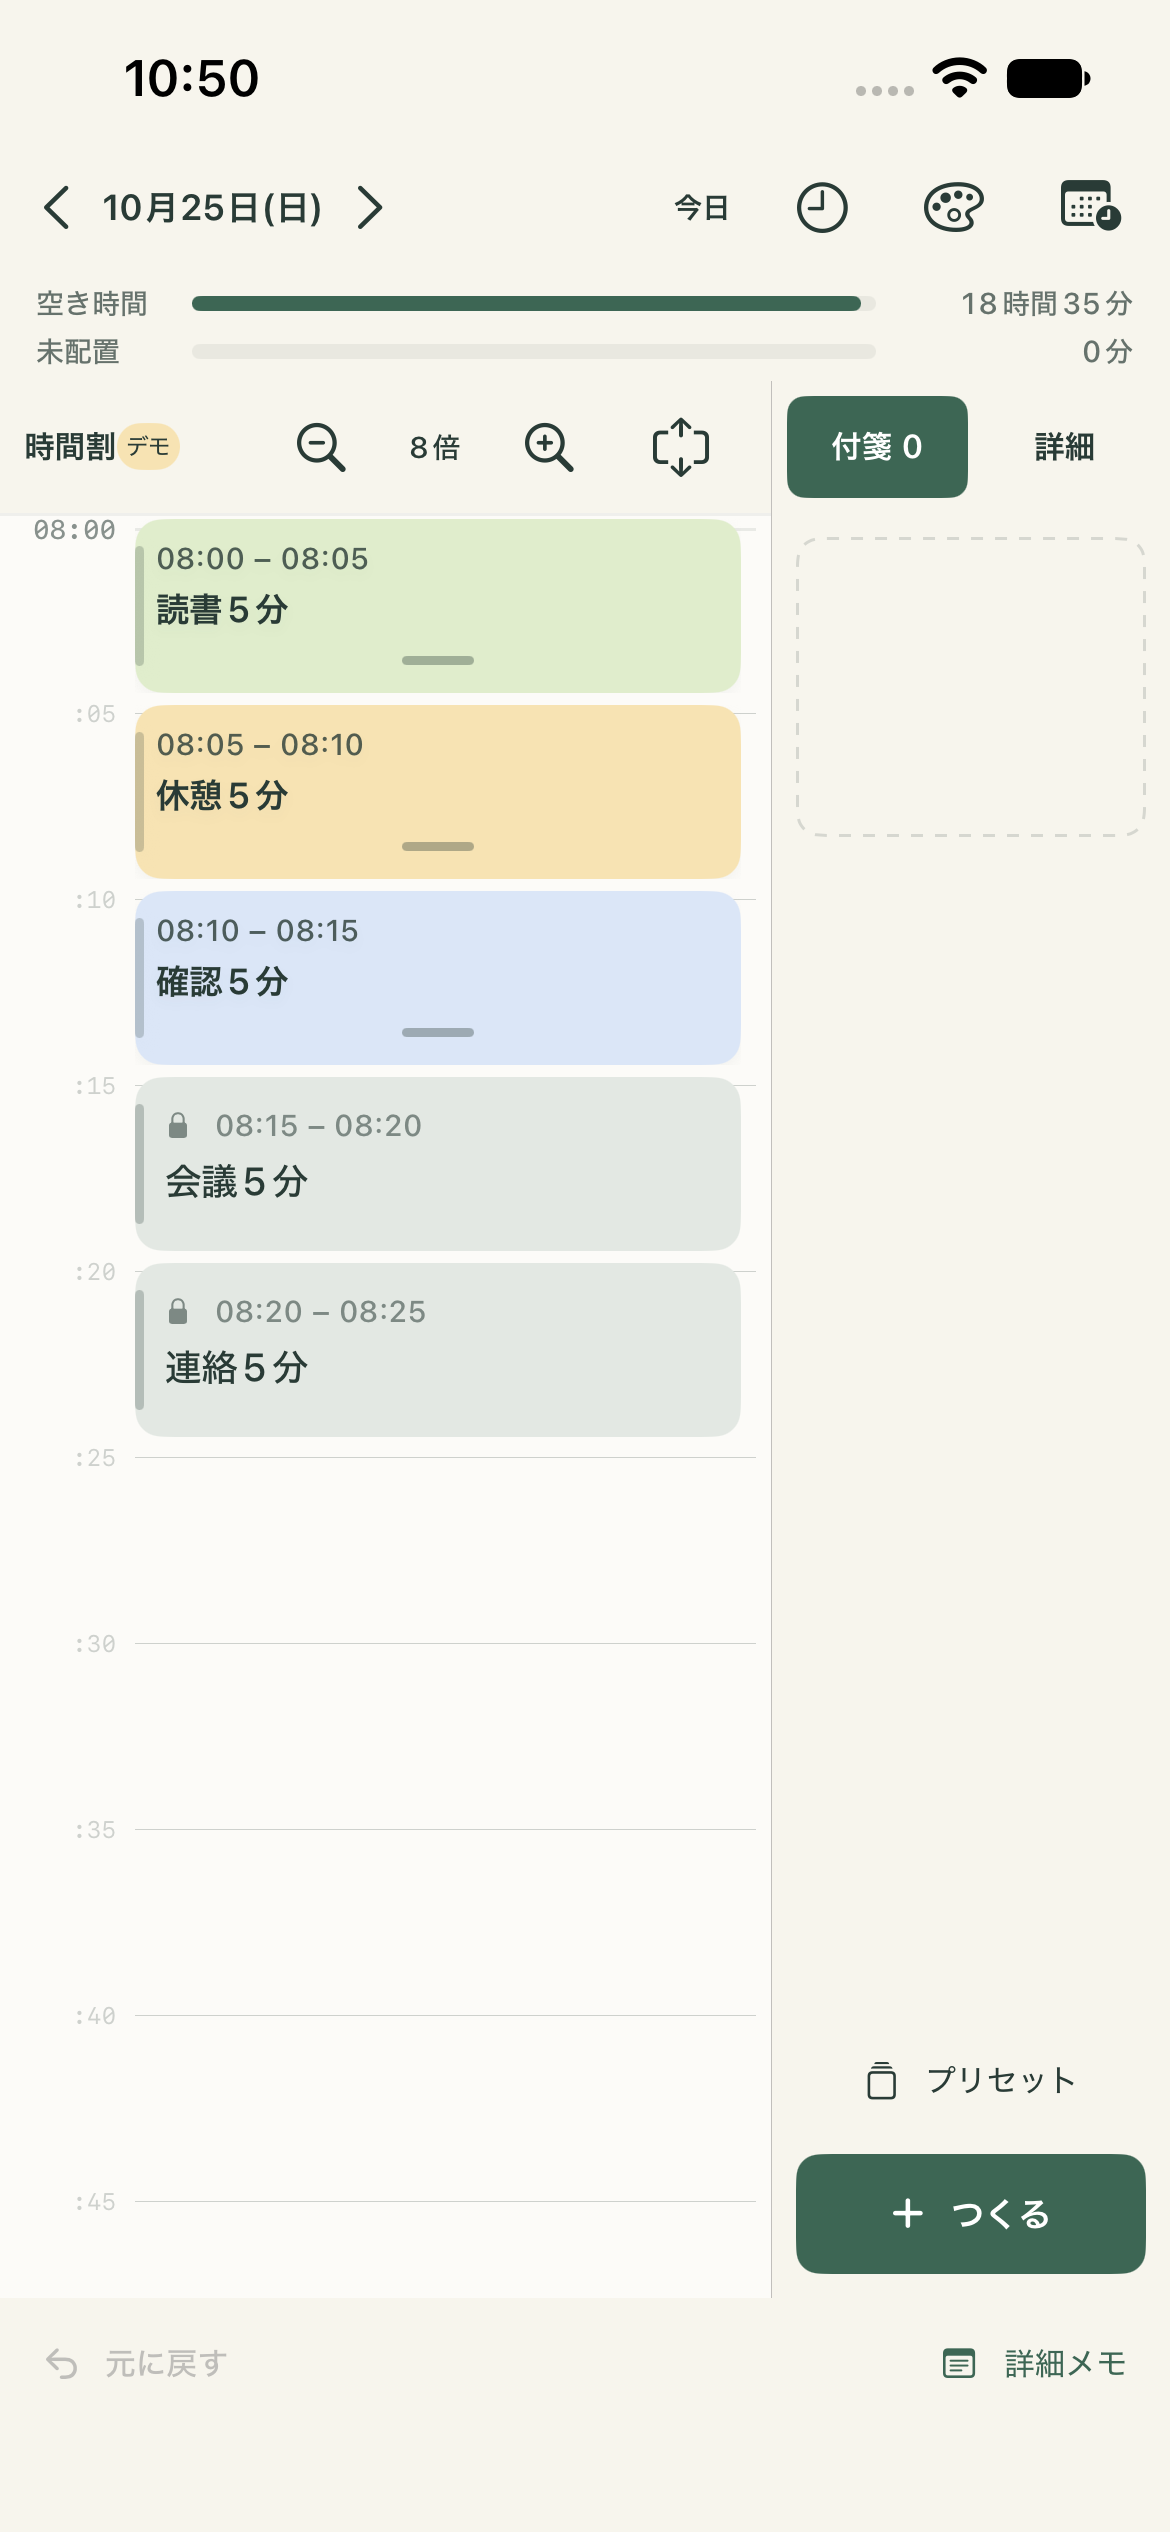
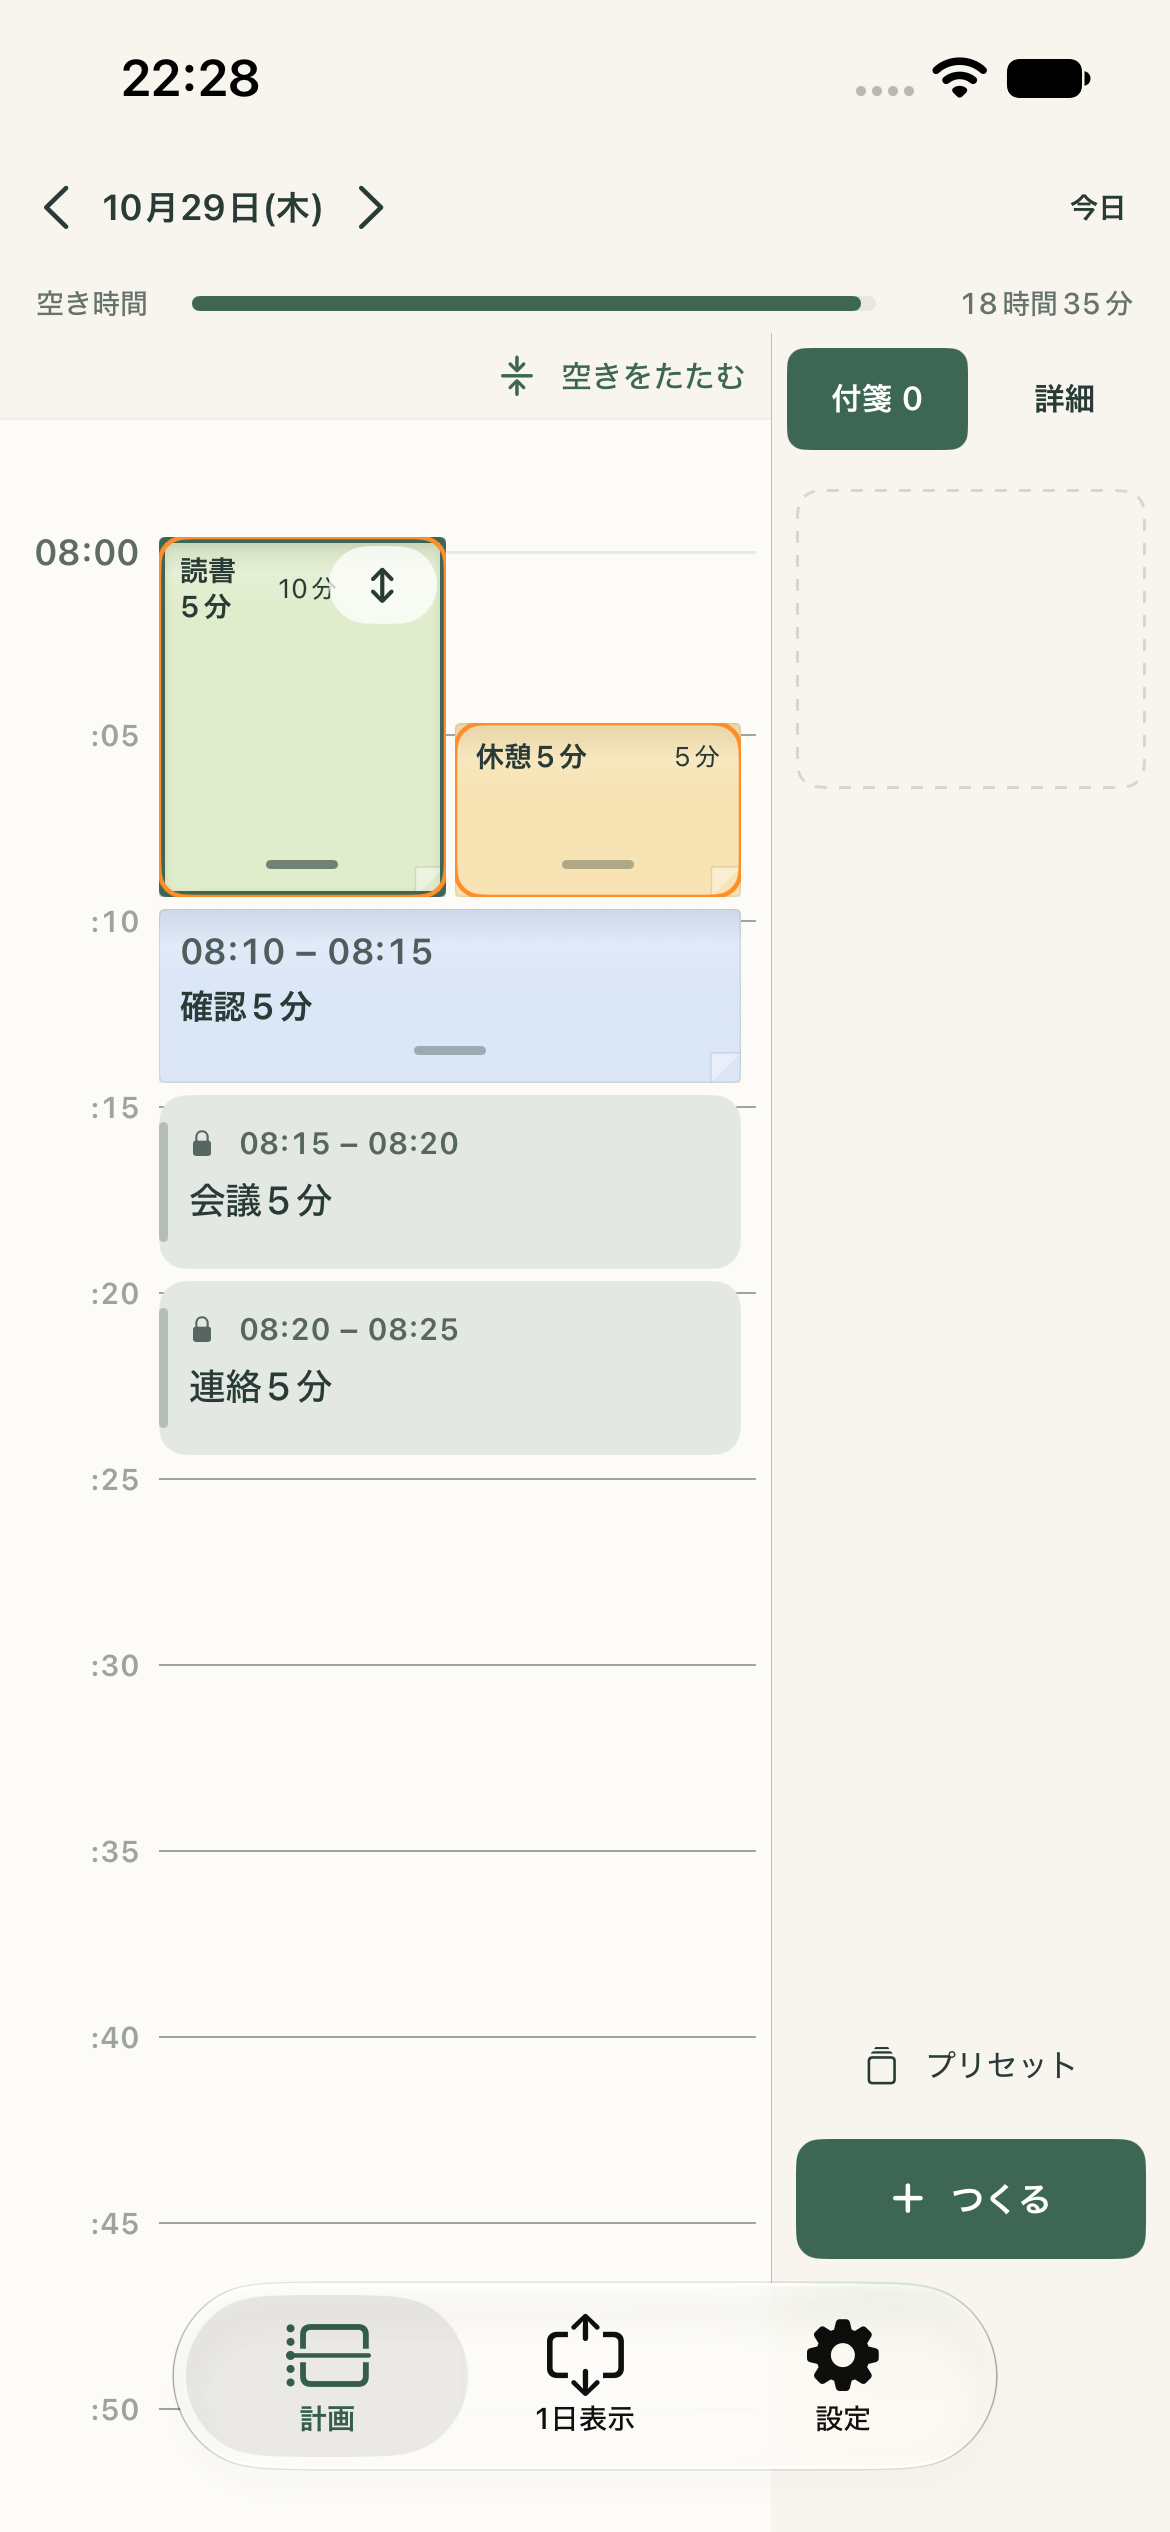
Improve schedule time typography and label spacing (issue 54)

diff --git a/ios/Yoteikan/PlannerView.swift b/ios/Yoteikan/PlannerView.swift
@@ -122,6 +122,15 @@ private final class MemoPreviewPresenter {
     deinit { hide() }
 }
 
+private struct ScheduleTimeText: View {
+    let text: String
+    var size: CGFloat = 12
+    var body: some View {
+        Text(text).font(.system(size: size, weight: .semibold)).monospacedDigit()
+            .lineLimit(1).minimumScaleFactor(0.9)
+    }
+}
+
 private struct FullDayOverview: View {
     @Environment(\.dismiss) private var dismiss
     @Binding var date: Date
@@ -212,24 +221,24 @@ VStack(spacing: 8) {
                     ForEach(folded.bands.indices, id: \.self) { index in
                         let band = folded.bands[index]
                         HStack(spacing: 6) {
-                            Text(clockText(band.start)).font(.system(size: 10, design: .monospaced)).frame(width: 38, alignment: .trailing)
+                            ScheduleTimeText(text: clockText(band.start)).frame(width: 44, alignment: .trailing)
                             Rectangle().fill(ink.opacity(0.12)).frame(height: 1)
                         }.frame(height: 14).offset(y: band.y)
                         if !band.occupied {
                             Text("空き \(durationText(band.end - band.start))")
                                 .font(.system(size: 10)).foregroundStyle(.secondary)
-                                .frame(width: max(1, geometry.size.width - 52), height: band.height)
-                                .offset(x: 48, y: band.y + 7)
+                                .frame(width: max(1, geometry.size.width - 58), height: band.height)
+                                .offset(x: 54, y: band.y + 7)
                         }
                     }
                     HStack(spacing: 6) {
-                        Text(clockText(hours.end)).font(.system(size: 10, design: .monospaced)).frame(width: 38, alignment: .trailing)
+                        ScheduleTimeText(text: clockText(hours.end)).frame(width: 44, alignment: .trailing)
                         Rectangle().fill(ink.opacity(0.12)).frame(height: 1)
                     }.frame(height: 14).offset(y: folded.height)
                     ForEach(items) { item in
                         let start = max(hours.start, item.start)
                         let slot = slots[item.id] ?? TimelineSlot(column: 0, columns: 1)
-                        let width = max(1, geometry.size.width - 48) / CGFloat(slot.columns)
+                        let width = max(1, geometry.size.width - 54) / CGFloat(slot.columns)
                         let cardHeight = folded.position(min(hours.end, item.end)) - folded.position(start) - 2
                         Text(item.title)
                             .font(.system(size: 13, weight: .medium)).lineLimit(2)
@@ -240,7 +249,7 @@ VStack(spacing: 8) {
                                 else { RoundedRectangle(cornerRadius: 5).fill(color(item)) }
                             }
                             .clipped().overlay(MemoHold { preview(item.target) })
-                            .offset(x: 46 + width * CGFloat(slot.column), y: folded.position(start) + 7)
+                            .offset(x: 52 + width * CGFloat(slot.column), y: folded.position(start) + 7)
                             .accessibilityLabel("\(clockText(item.start))〜\(clockText(item.end))、\(item.title)")
                             .accessibilityIdentifier("fullDayBlock-\(item.title)")
                             .accessibilityHint("長押しして詳細メモを表示")
@@ -767,15 +776,15 @@ struct PlannerView: View {
     private func hourRow(_ hour: Int) -> some View {
         ZStack(alignment: .topLeading) {
             HStack(spacing: 6) {
-                Text(String(format: "%02d:00", hour)).font(.system(size: 9, weight: .medium, design: .monospaced)).foregroundStyle(ink.opacity(0.55)).frame(width: 34, alignment: .trailing)
+                ScheduleTimeText(text: String(format: "%02d:00", hour)).foregroundStyle(ink.opacity(0.75)).frame(width: 42, alignment: .trailing)
                 Rectangle().fill(ink.opacity(0.09)).frame(height: 1)
             }
             if !overview && zoomFactor >= 4 && hour < plans.hours.end / 60 {
                 ForEach(1..<12) { step in
                     HStack(spacing: 6) {
-                        Text(String(format: ":%02d", step * 5)).font(.system(size: 8, design: .monospaced)).frame(width: 34, alignment: .trailing)
+                        ScheduleTimeText(text: String(format: ":%02d", step * 5), size: 10).frame(width: 42, alignment: .trailing)
                         Rectangle().frame(height: 0.5)
-                    }.foregroundStyle(ink.opacity(0.22)).offset(y: CGFloat(step * 5) * scale)
+                    }.foregroundStyle(ink.opacity(0.45)).offset(y: CGFloat(step * 5) * scale)
                 }
             }
         }.frame(height: 60 * scale, alignment: .top).id("hour-\(hour)")
@@ -807,7 +816,7 @@ struct PlannerView: View {
         let collision = conflicts(task)
         let slot = slots[task.id.uuidString] ?? TimelineSlot(column: 0, columns: 1)
         let slotCount = slot.columns
-        let width = (availableWidth - 42) / CGFloat(slotCount)
+        let width = (availableWidth - 50) / CGFloat(slotCount)
         let height = max(0, timelineY(visibleEnd) - timelineY(visibleStart) - (folded ? 2 : min(4, CGFloat(visibleEnd - visibleStart) * scale * 0.25)) + (stretching == task.id ? stretch : 0))
         return taskCard(task, compact: overview || slotCount > 1, height: height)
             .frame(width: width - 3, height: height)
@@ -837,7 +846,7 @@ struct PlannerView: View {
                         .offset(y: -29).allowsHitTesting(false)
                 }
             }
-            .offset(x: 40 + width * CGFloat(slot.column), y: timelineY(visibleStart) + 2 + (moving == task.id ? shift : 0))
+            .offset(x: 48 + width * CGFloat(slot.column), y: timelineY(visibleStart) + 2 + (moving == task.id ? shift : 0))
             .zIndex(moving == task.id || stretching == task.id ? 5 : selected == task.id ? 3 : 1)
             .accessibilityElement(children: .contain)
             .accessibilityIdentifier("task-\(task.title)")
@@ -859,21 +868,21 @@ struct PlannerView: View {
                     ForEach(layout.bands.indices, id: \.self) { index in
                         let band = layout.bands[index]
                         HStack(spacing: 6) {
-                            Text(clockText(band.start)).font(.system(size: 9, design: .monospaced)).frame(width: 34, alignment: .trailing)
+                            ScheduleTimeText(text: clockText(band.start)).frame(width: 42, alignment: .trailing)
                             Rectangle().fill(ink.opacity(0.12)).frame(height: 1)
                         }.frame(height: 12).offset(y: band.y)
                         if !band.occupied {
                             Text("空き \(durationText(band.end - band.start))").font(.system(size: 9)).foregroundStyle(.secondary)
-                                .frame(width: max(1, geometry.size.width - 42), height: band.height)
-                                .offset(x: 40, y: band.y + 6).allowsHitTesting(false)
+                                .frame(width: max(1, geometry.size.width - 50), height: band.height)
+                                .offset(x: 48, y: band.y + 6).allowsHitTesting(false)
                         }
                     }
-                    Text(clockText(plans.hours.end)).font(.system(size: 9, design: .monospaced))
-                        .frame(width: 34, alignment: .trailing).offset(y: layout.height)
+                    ScheduleTimeText(text: clockText(plans.hours.end))
+                        .frame(width: 42, alignment: .trailing).offset(y: layout.height)
                     ForEach(visibleFixed) { event in
                         let start = max(plans.hours.start, event.start)
                         let slot = slots["fixed-" + event.id] ?? TimelineSlot(column: 0, columns: 1)
-                        let width = (geometry.size.width - 42) / CGFloat(slot.columns)
+                        let width = (geometry.size.width - 50) / CGFloat(slot.columns)
                         let height = timelineY(min(event.end, plans.hours.end)) - timelineY(start) - 2
                         fixedCard(event, height: height).frame(width: width - 3, height: height).clipped()
                             .overlay(MemoHold { preview(.fixed(event)) })
@@ -881,7 +890,7 @@ struct PlannerView: View {
                             .accessibilityLabel("\(event.title)、\(clockText(event.start))から\(clockText(event.end))、カレンダーの固定予定")
                             .accessibilityIdentifier("fixed-\(event.title)")
                             .accessibilityAction(named: "詳細メモ") { UIAccessibility.post(notification: .announcement, argument: preview(.fixed(event)).spoken) }
-                            .offset(x: 40 + width * CGFloat(slot.column), y: timelineY(start) + 2)
+                            .offset(x: 48 + width * CGFloat(slot.column), y: timelineY(start) + 2)
                     }
                     ForEach(placed) { task in placedCard(task, availableWidth: geometry.size.width) }
                 }
@@ -911,7 +920,7 @@ struct PlannerView: View {
                         ForEach(visibleFixed) { event in
                             let start = max(plans.hours.start, event.start)
                             let slot = slots["fixed-" + event.id] ?? TimelineSlot(column: 0, columns: 1)
-                            let width = (geometry.size.width - 42) / CGFloat(slot.columns)
+                            let width = (geometry.size.width - 50) / CGFloat(slot.columns)
                             let height = cardHeight(min(event.end, plans.hours.end) - start)
                             fixedCard(event, height: height).frame(width: width - 3, height: height).clipped()
                                 .overlay(MemoHold { preview(.fixed(event)) })
@@ -919,7 +928,7 @@ struct PlannerView: View {
                                 .accessibilityLabel("\(event.title)、\(clockText(event.start))から\(clockText(event.end))、カレンダーの固定予定")
                                 .accessibilityIdentifier("fixed-\(event.title)")
                                 .accessibilityAction(named: "詳細メモ") { UIAccessibility.post(notification: .announcement, argument: preview(.fixed(event)).spoken) }
-                                .offset(x: 40 + width * CGFloat(slot.column), y: CGFloat(start - plans.hours.start) * scale + 2)
+                                .offset(x: 48 + width * CGFloat(slot.column), y: CGFloat(start - plans.hours.start) * scale + 2)
                         }
                         ForEach(placed) { task in
                             placedCard(task, availableWidth: geometry.size.width)
@@ -985,7 +994,7 @@ struct PlannerView: View {
             if height < 44 {
                 if height >= 14 { Text(event.title).font(.system(size: folded ? 12 : 10, weight: .medium)).lineLimit(folded ? 2 : 1) }
             } else if overview { Text(event.title).font(.system(size: 7, weight: .medium)).lineLimit(1) }
-            else { HStack { Image(systemName: "lock.fill").font(.system(size: 9)); Text("\(clockText(event.start)) – \(clockText(event.end))").font(.system(size: 10, weight: .medium)); Spacer(minLength: 0) }.foregroundStyle(ink.opacity(0.55))
+            else { HStack { Image(systemName: "lock.fill").font(.system(size: 9)); Text("\(clockText(event.start)) – \(clockText(event.end))").font(.system(size: 12, weight: .semibold)).monospacedDigit().lineLimit(1).minimumScaleFactor(0.85); Spacer(minLength: 0) }.foregroundStyle(ink.opacity(0.75))
             if !overview { Text(event.title).font(.system(size: 13, weight: .medium)).lineLimit(2) }
             Spacer(minLength: 0)
             }
@@ -1001,7 +1010,7 @@ struct PlannerView: View {
             } else if overview {
                 if duration >= 45 { Text(task.title).font(.system(size: 7, weight: .semibold)).lineLimit(1) }
             } else {
-            if !compact { Text("\(clockText(start)) – \(clockText(start + duration))").font(.system(size: 10, weight: .medium)).foregroundStyle(textColor.opacity(0.8)) }
+            if !compact { Text("\(clockText(start)) – \(clockText(start + duration))").font(.system(size: 12, weight: .semibold)).monospacedDigit().lineLimit(1).minimumScaleFactor(0.85).foregroundStyle(textColor.opacity(0.8)) }
             HStack(spacing: 4) { Text(task.title).font(.system(size: compact ? 10 : 12, weight: .semibold)).lineLimit(2); Spacer(minLength: 0); if compact { Text("\(duration)分").font(.system(size: 9)) } }.padding(.trailing, selected == task.id ? 29 : 0)
             Spacer(minLength: 0)
             }

diff --git a/docs/issues-52-57.md b/docs/issues-52-57.md
@@ -11,3 +11,7 @@
 配置済みの付箋は、動かさずに長押しして指を離すとコピーを選べます。付箋欄は標準の長押しメニューからコピーできます。保存済みのメモ・色・所要時間・通知設定を保ち、新しいIDの未配置付箋として選択日の付箋欄へ追加します。元の付箋は変更しません。コピーは1回の操作として元に戻せます。
 
 単体29件、既存のドラッグ/折りたたみ操作、長押しプレビュー、両領域のコピー操作を検証しました。最終のメニュー操作は `artifacts/Issue53Accept.xcresult`（UI31/46成功）、モデルとドラッグは `artifacts/Issue53.xcresult` を参照。
+
+## #54：時刻の読みやすさ
+
+時刻軸を標準のシステム書体・12ポイントのセミボールドへ変更し、数字の幅を揃えました。時刻欄を広げ、薄すぎた文字の濃さも調整しています。予定内の開始・終了時刻も12ポイントにしています。短い予定の拡大操作と1日表示の日付切替をUI20/45で確認しました（`artifacts/Issue54.xcresult`）。
